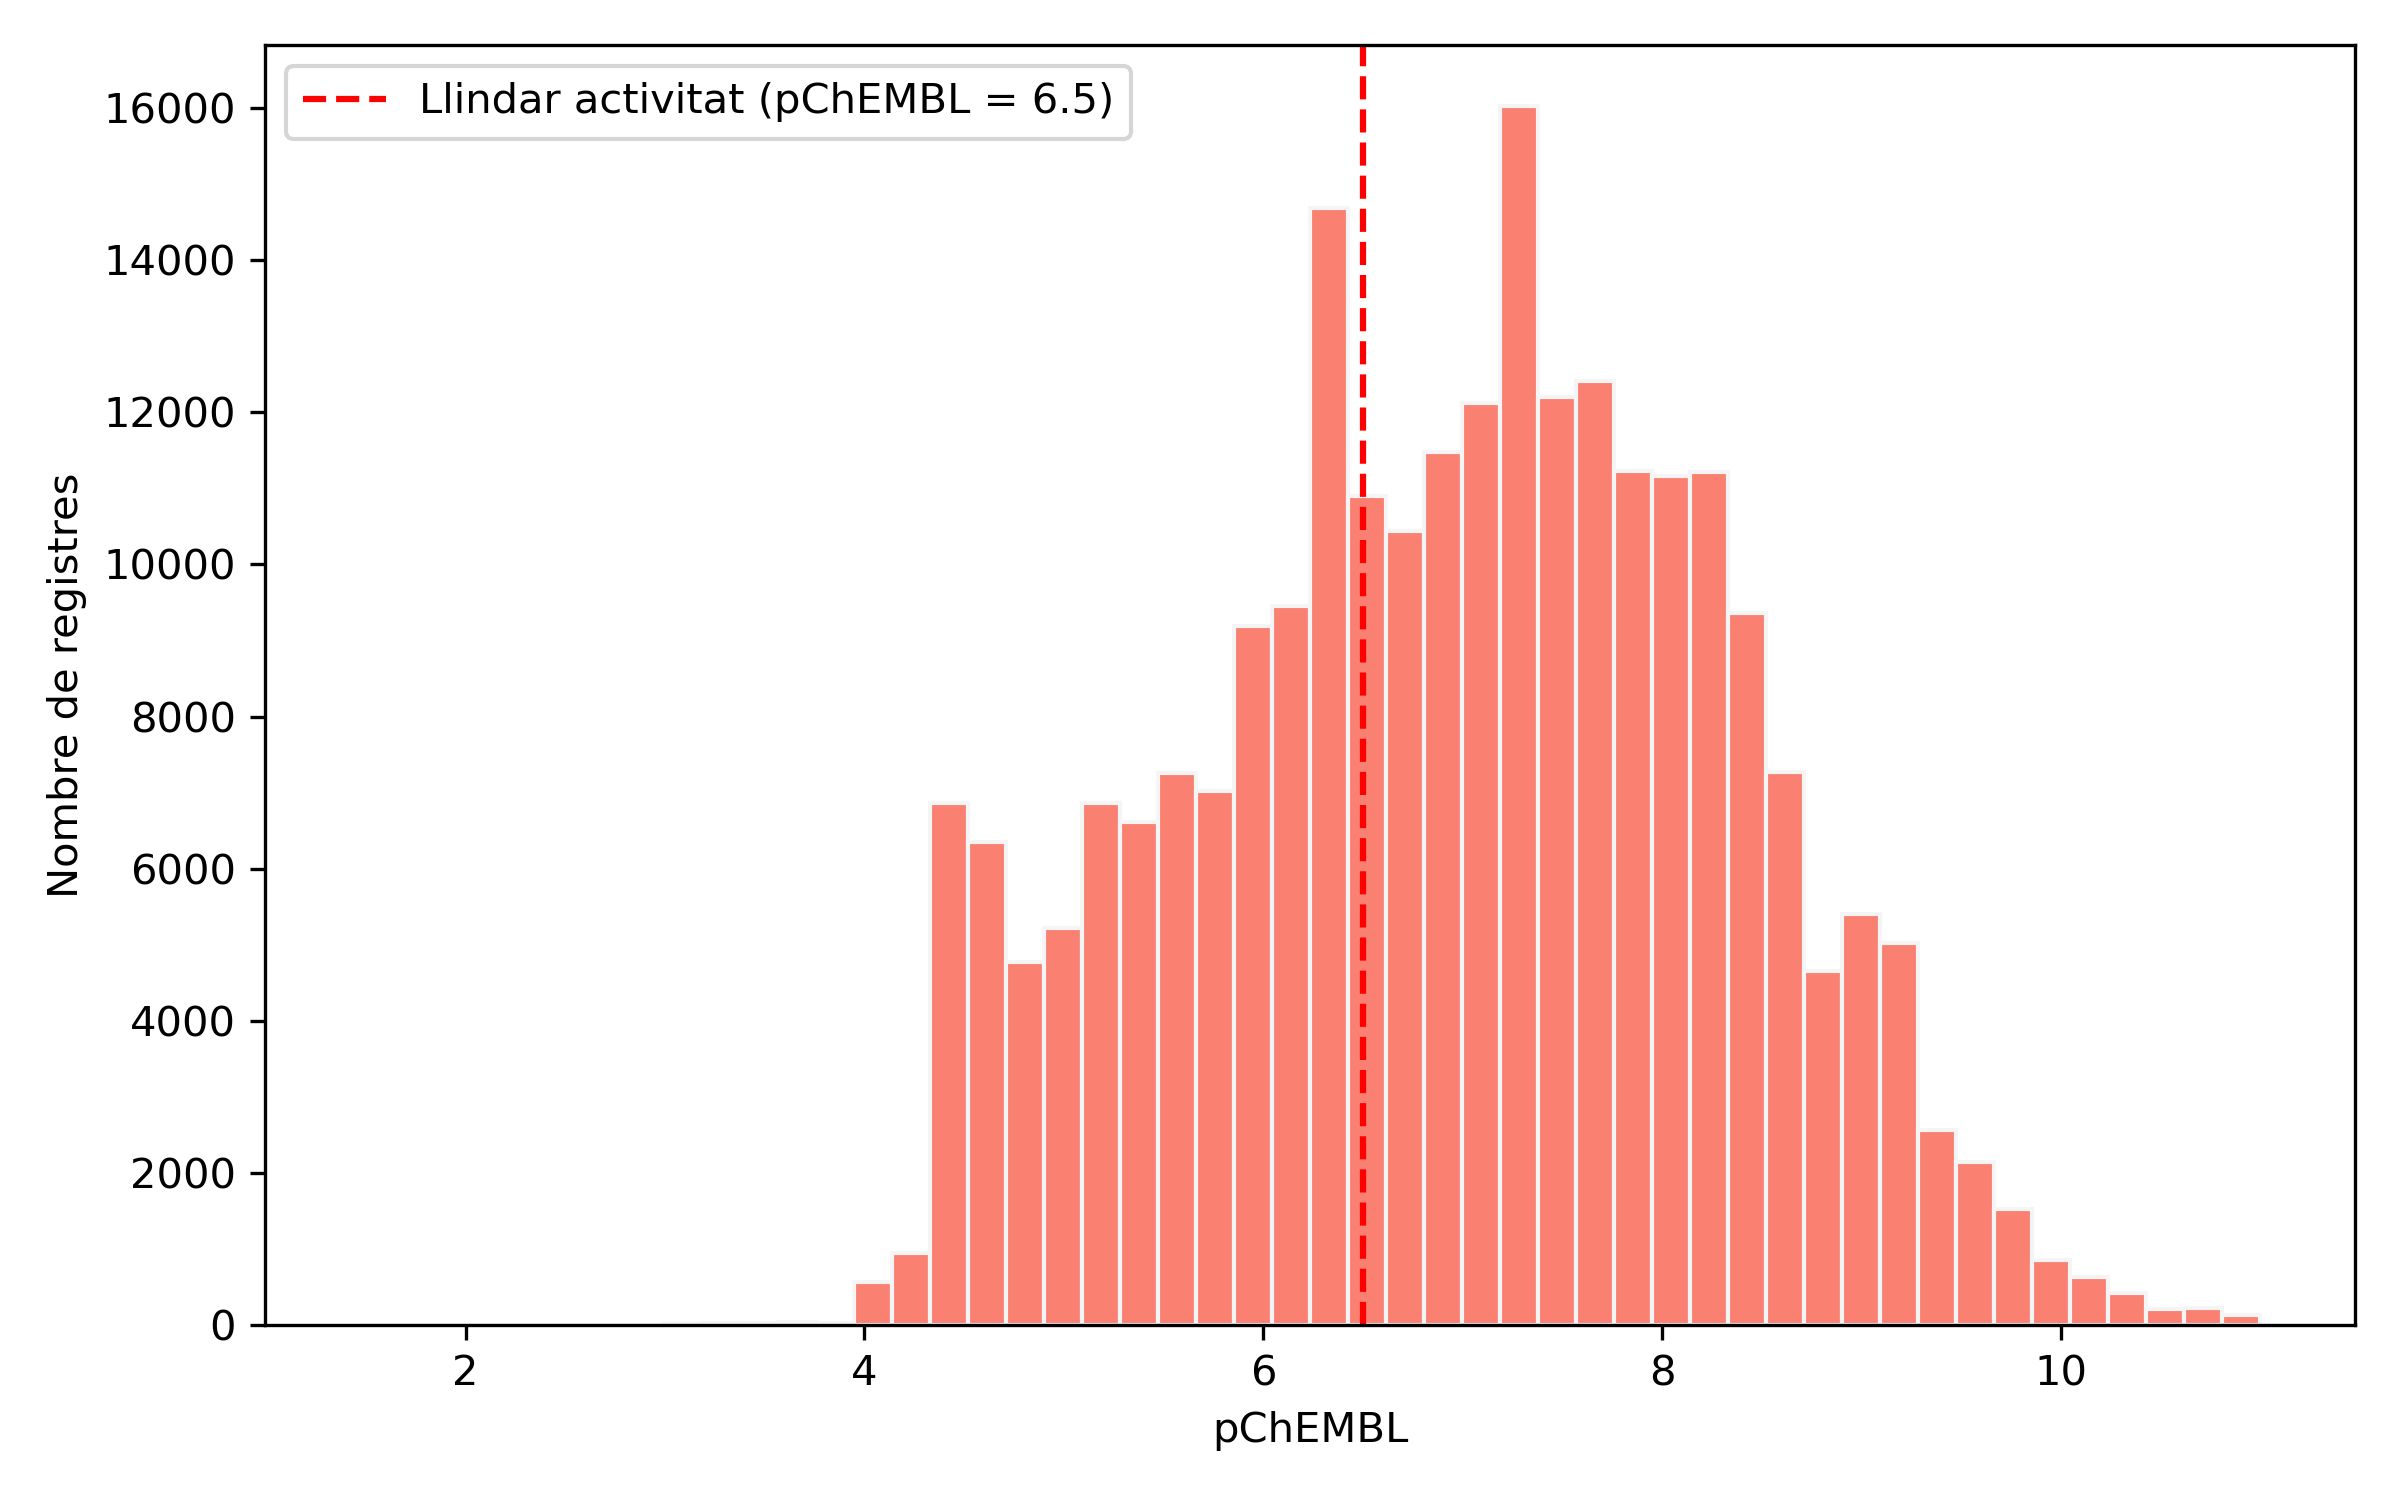
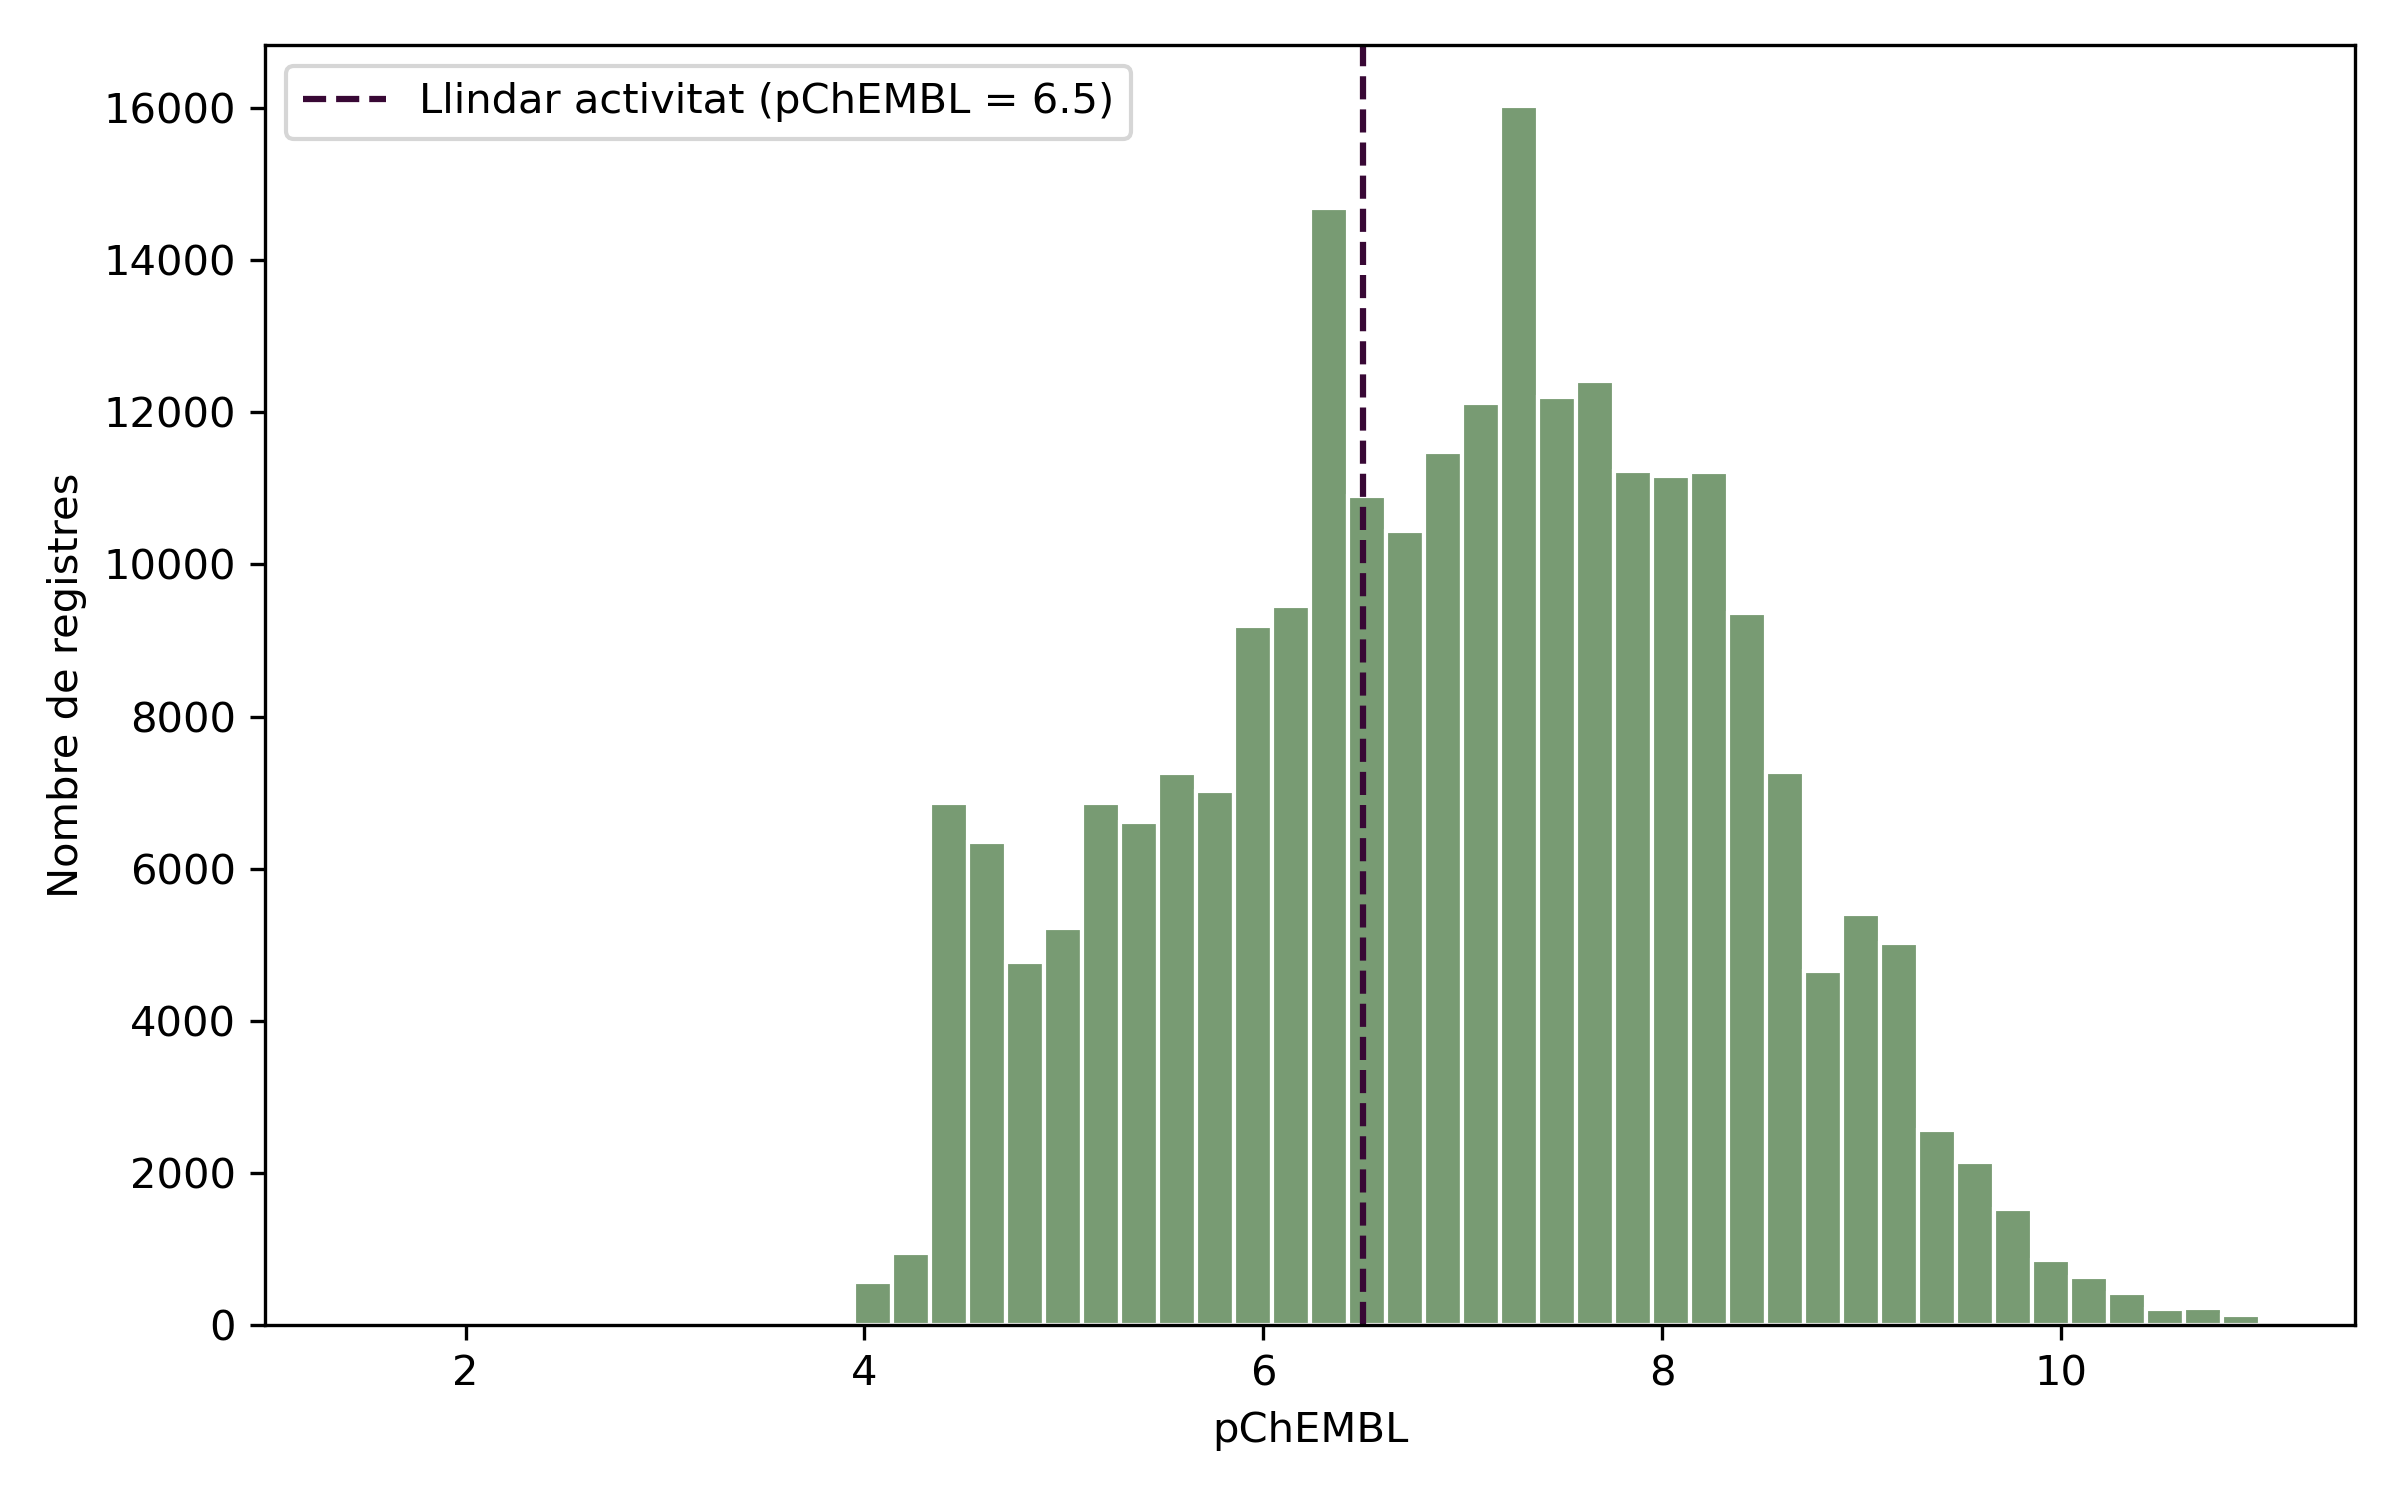
graphs

Changed region(s): [[0.3438, 0.0613, 0.9375, 0.8893], [0.125, 0.0613, 0.1562, 0.092]]

diff --git a/src/data_download/chembl_activities.py b/src/data_download/chembl_activities.py
@@ -12,14 +12,20 @@ print(len(data))
 data_compounds = data[data['Compounds'] > 50]
 print(len(data_compounds)) # comprobació de que el nombre s'ha reduït
 
-# Boxplot d'outliers per eliminar els compostos amb molt poques activitats:
-plt.figure()
-data_compounds['Activities'].plot(kind = 'box')
-plt.title("Activities")
-plt.ylabel("Activities")
-plt.savefig("figures/Boxplot_acts_filter.png")
-plt.show() # El boxplot mostra que les cinases amb menys activitats associades són les que tenen menys de 700.
+plt.figure(figsize = (6,6))
+plt.boxplot(
+    data_compounds['Activities'],
+    patch_artist = True,
+    boxprops = dict(facecolor = 'xkcd:grey green'),
+    medianprops = dict(color = 'xkcd:pine', linewidth = 1.5)
+)
 
+plt.axhline(700, linestyle = '--', linewidth = 1, color = 'xkcd:eggplant')
+plt.ylabel("Nombre d'activitats")
+plt.title("Distribució d'activitats per cinasa")
+plt.tight_layout()
+plt.savefig("figures/Boxplot_activitats.png", dpi = 300)
+plt.show()
 
 # Es decideix eliminar els targets amb menys de 700 activitats. 
 # Els que tenen moltes activitats associades són targets importants i, encara que siguin outliers, es conserven.
@@ -53,4 +59,3 @@ df_acts = pd.DataFrame(all_activities)
 df_acts.to_csv("data/partials/db_final.csv", index = False)
 
 print(len(df_acts))
-#

diff --git a/src/data_preparation/merge_and_quality.py b/src/data_preparation/merge_and_quality.py
@@ -41,8 +41,8 @@ print("STD pChEMBL:", round(df_complete['pchembl_value'].std(), 4))
 
 # Histograma pChEMBL:
 plt.figure(figsize = (8, 5))
-plt.hist(df_complete['pchembl_value'], bins = 50, color = 'salmon', edgecolor = 'whitesmoke')
-plt.axvline(x = 6.5, color = 'red', linestyle = '--', linewidth = 1.5, label = 'Llindar activitat (pChEMBL = 6.5)')
+plt.hist(df_complete['pchembl_value'], bins = 50, color = 'xkcd:grey green', edgecolor = 'xkcd:white')
+plt.axvline(x = 6.5, color = 'xkcd:eggplant', linestyle = '--', linewidth = 1.5, label = 'Llindar activitat (pChEMBL = 6.5)')
 plt.xlabel('pChEMBL')
 plt.ylabel('Nombre de registres')
 plt.legend()
